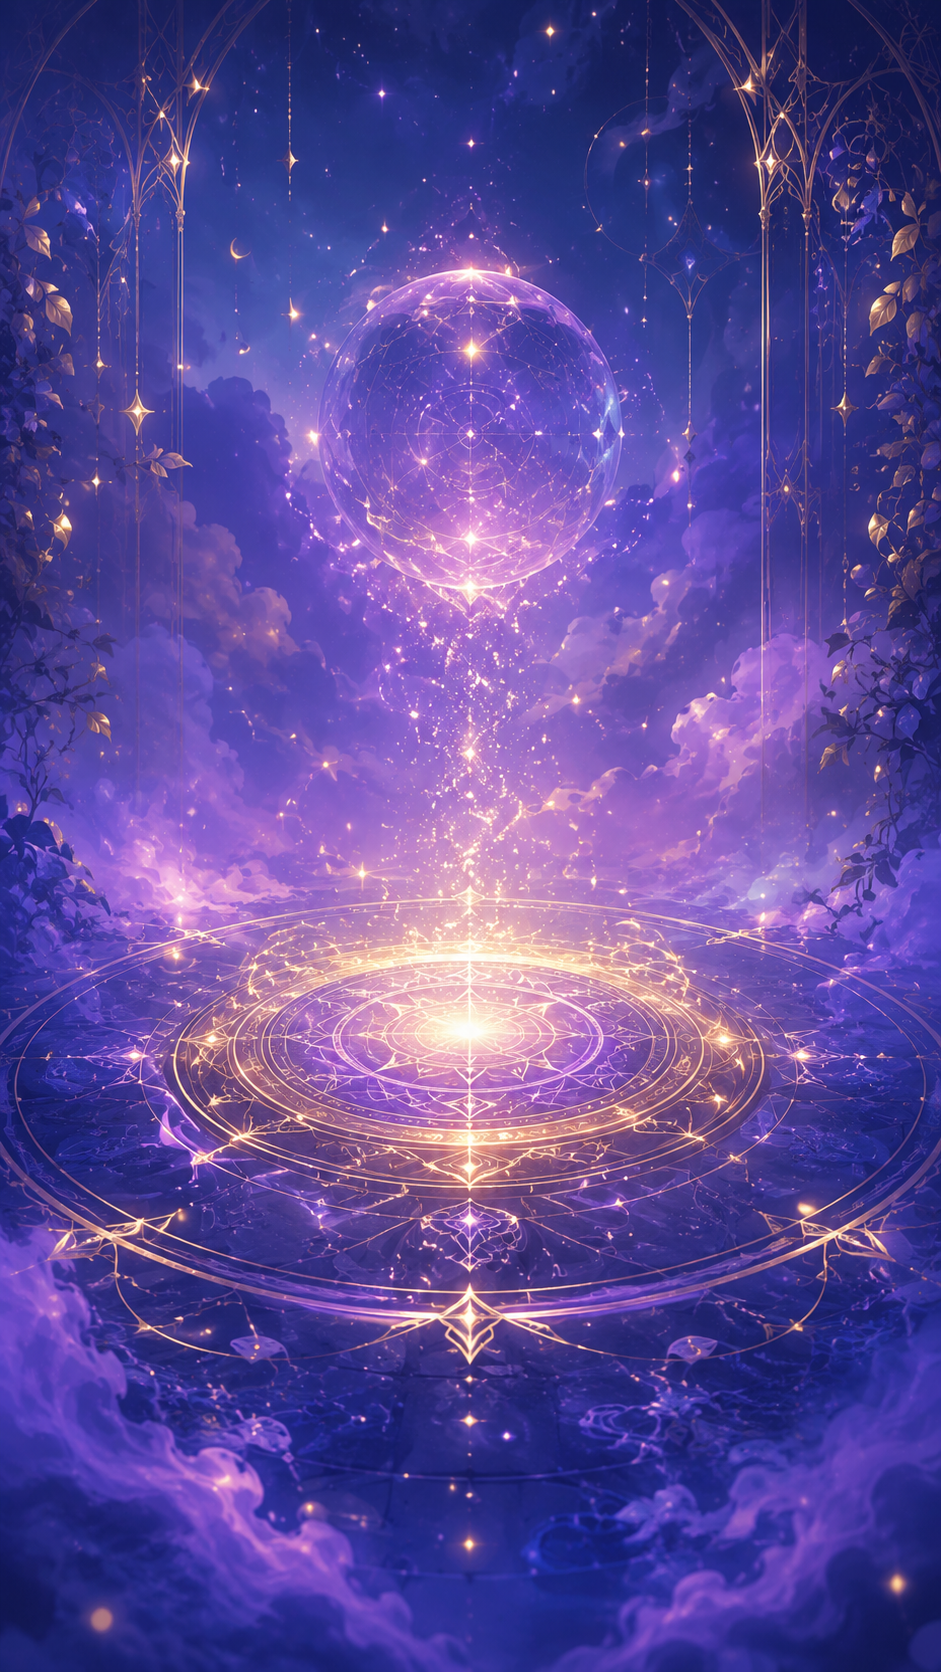
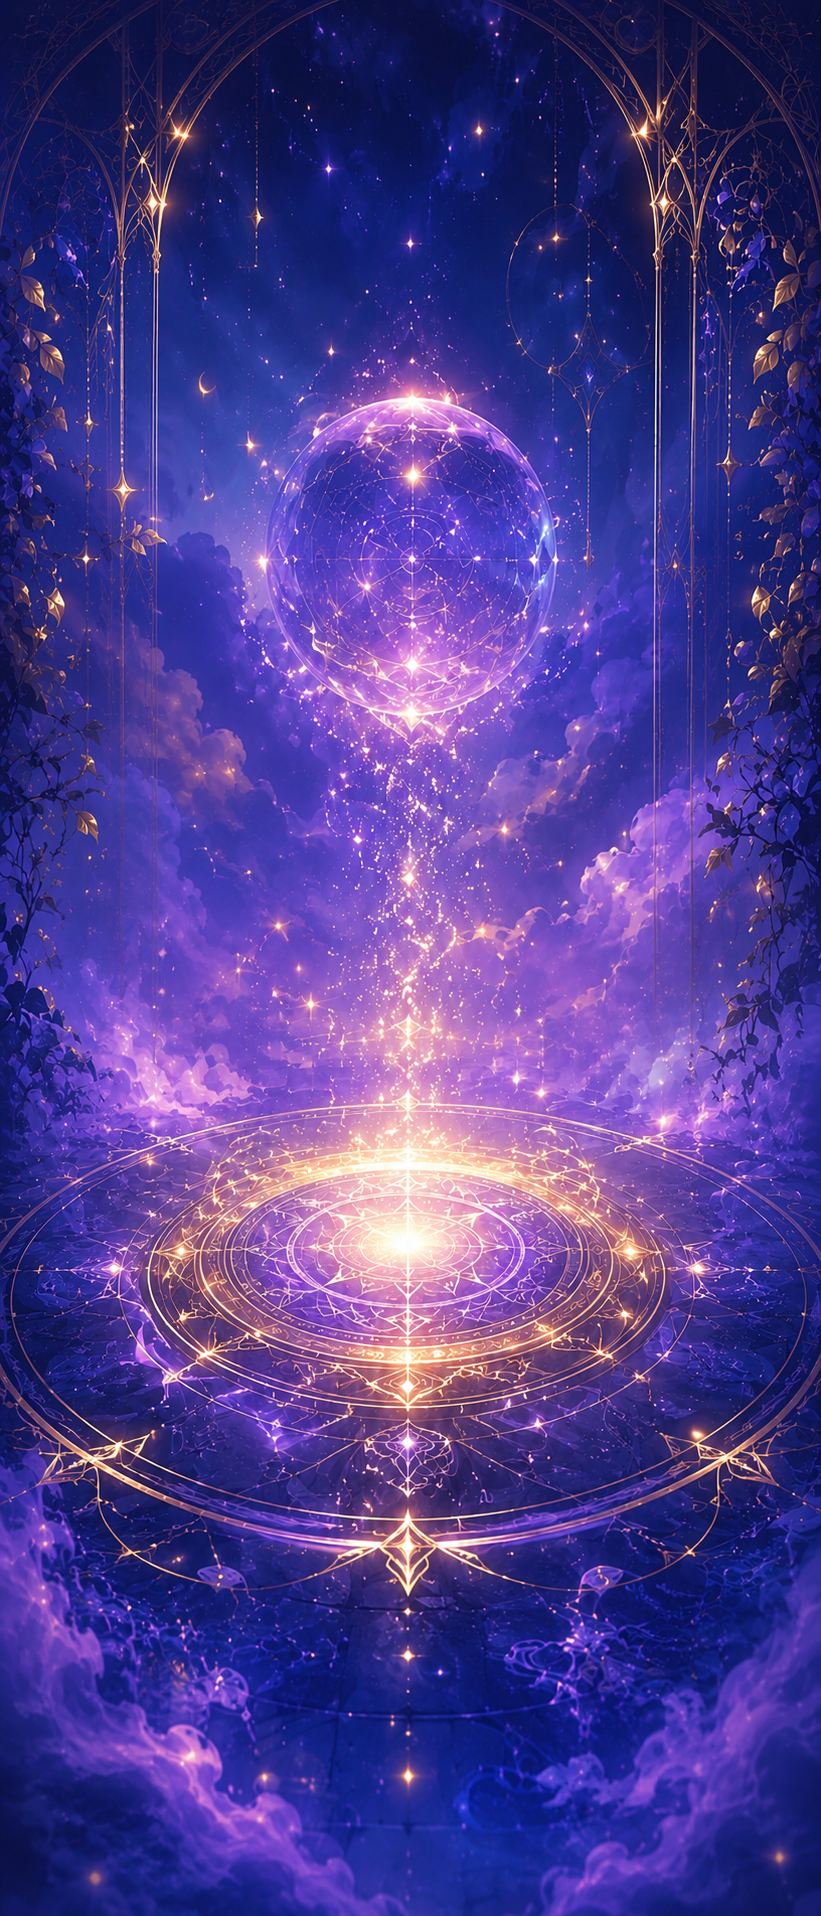
update magic loading mobile background

diff --git a/src/components/LoadingPortal.tsx b/src/components/LoadingPortal.tsx
@@ -126,7 +126,7 @@ export function LoadingPortal({
               src="/backgrounds/loading/magic-circle-mobile.png"
               alt=""
               aria-hidden="true"
-              className="loading-magic-image"
+              className="h-full w-full object-cover object-center"
             />
           </picture>
 
